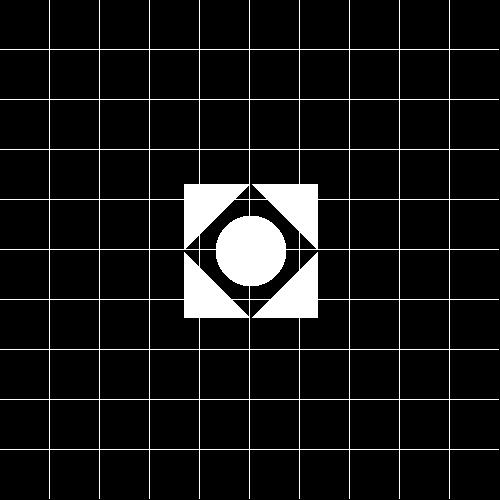
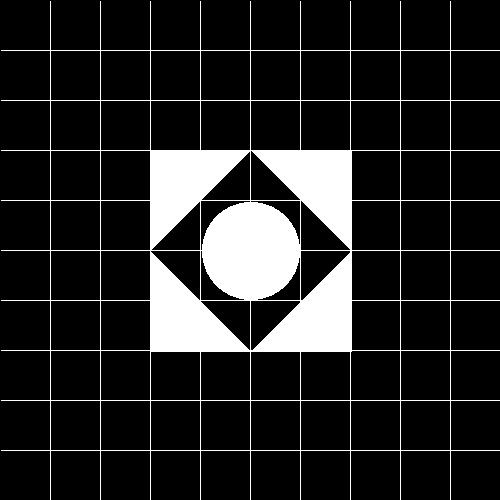
finish 4

diff --git a/Introduction to Software Engineering/project/src/unittests/RenderTest.java b/Introduction to Software Engineering/project/src/unittests/RenderTest.java
@@ -1,20 +1,106 @@
 package unittests;
 
-import static org.junit.jupiter.api.Assertions.*;
-
-import java.awt.Color;
-
+//import static org.junit.jupiter.api.Assertions.*;
 import org.junit.jupiter.api.Test;
-
-import elements.Camera;
 import geometries.*;
 import primitives.*;
-import renderer.ImageWriter;
-import renderer.Render;
+import elements.Camera;
 import scene.Scene;
+import java.awt.Color;
+import renderer.*;
+
 
 public class RenderTest {
 	
+	@Test
+	public void aviImage(){
+		Scene scene = new Scene("Avi scene");
+		scene.set_camera(new Camera( new Vector(0, -1, 0), new Vector(0, 0, 1),new Point3D(0, 0, 0)));
+		scene.set_distance(100);
+		scene.set_backGround(new Color(135,206,250));
+		Geometries geometries = new Geometries();
+		scene.set_geometries(geometries);
+
+		geometries.addGeometry(new Triangle(new Point3D(-150,   0, 149),
+											new Point3D(  75,   0, 149),
+											new Point3D(  75, -50, 149)));
+		
+		geometries.addGeometry(new Triangle(new Point3D(-150,   0, 149),
+											new Point3D(  75, -50, 149),
+											new Point3D(-150, -50, 149)));
+		
+		geometries.addGeometry(new Triangle(new Point3D(-150, -200, 149),
+				 							new Point3D(  50, -200, 149),
+				 							new Point3D(  50, -150, 149)));
+		
+		geometries.addGeometry(new Triangle(new Point3D(-150, -200, 149),
+				 			 				new Point3D(  50, -150, 149),
+				 			 				new Point3D(-150, -150, 149)));
+		
+		geometries.addGeometry(new Triangle(new Point3D(   0, -200, 149),
+											new Point3D(  50, -200, 149),
+											new Point3D(  50,    0, 149)));
+
+		geometries.addGeometry(new Triangle(new Point3D(   0, -200, 149),
+	 										new Point3D(  50,    0, 149),
+	 										new Point3D(   0,    0, 149)));
+		
+		geometries.addGeometry(new Triangle(new Point3D(-250, -200, 149),
+											new Point3D(-200, -200, 149),
+											new Point3D(-200, -100, 149)));
+
+		geometries.addGeometry(new Triangle(new Point3D(-250, -200, 149),
+											new Point3D(-250, -100, 149),
+											new Point3D(-200, -100, 149)));
+
+		geometries.addGeometry(new Triangle(new Point3D( 100, -200, 149),
+											new Point3D( 150, -200, 149),
+											new Point3D( 350,    0, 149)));
+
+		geometries.addGeometry(new Triangle(new Point3D( 100, -200, 149),
+											new Point3D( 300,    0, 149),
+											new Point3D( 350,    0, 149)));
+
+		geometries.addGeometry(new Triangle(new Point3D( 275, -200, 149),
+											new Point3D( 325, -200, 149),
+											new Point3D( 325, -125, 149)));
+
+		geometries.addGeometry(new Triangle(new Point3D( 275, -200, 149),
+											new Point3D( 275, -125, 149),
+											new Point3D( 325, -125, 149)));
+
+		geometries.addGeometry(new Triangle(new Point3D( 275, -125, 149),
+											new Point3D( 325, -125, 149),
+											new Point3D( 275,  -75, 149)));
+
+		geometries.addGeometry(new Triangle(new Point3D( 275, -125, 149),
+											new Point3D( 275,  -75, 149),
+											new Point3D( 250, -100, 149)));
+
+		geometries.addGeometry(new Triangle(new Point3D( 100, -100, 149),
+											new Point3D( 150, -100, 149),
+											new Point3D( 150,    0, 149)));
+
+		geometries.addGeometry(new Triangle(new Point3D( 100, -100, 149),
+											new Point3D( 100,    0, 149),
+											new Point3D( 150,    0, 149)));
+
+		geometries.addGeometry(new Triangle(new Point3D( 150, -150, 149),
+											new Point3D( 100, -100, 149),
+											new Point3D( 150, -100, 149)));
+
+		geometries.addGeometry(new Triangle(new Point3D( 150, -150, 149),
+											new Point3D( 150, -100, 149),
+											new Point3D( 175, -125, 149)));
+		
+		ImageWriter imageWriter = new ImageWriter("AVI", 500, 500, 500, 500);
+		Render render = new Render( scene,imageWriter);
+		
+		render.renderImage();
+		//render.printGrid(50);
+		render.writeToImage();
+	}
+
 	@Test
 	public void basicRendering(){
 		Scene scene = new Scene("Test scene");
@@ -23,23 +109,23 @@ public class RenderTest {
 		scene.set_backGround(new Color(0, 0, 0));
 		Geometries geometries = new Geometries();
 		scene.set_geometries(geometries);
-		scene.addGeometry(new Sphere(new Point3D(0, 0, 150), new Coordinate(50)));
+		geometries.addGeometry(new Sphere(new Point3D(0, 0, 150), new Coordinate(66)));
 
-		scene.addGeometry(new Triangle(new Point3D( 100, 0, 149),
-				 							new Point3D(  0, 100, 149),
-				 							new Point3D( 100, 100, 149)));
+		geometries.addGeometry(new Triangle(new Point3D( 150, 0, 149),
+				 							new Point3D(  0, 150, 149),
+				 							new Point3D( 150, 150, 149)));
 		
-		scene.addGeometry(new Triangle(new Point3D( 100, 0, 149),
-				 			 				new Point3D(  0, -100, 149),
-				 			 				new Point3D( 100,-100, 149)));
+		geometries.addGeometry(new Triangle(new Point3D( 150, 0, 149),
+				 			 				new Point3D(  0, -150, 149),
+				 			 				new Point3D( 150,-150, 149)));
 		
-		scene.addGeometry(new Triangle(new Point3D(-100, 0, 149),
-				 							new Point3D(  0, 100, 149),
-				 							new Point3D(-100, 100, 149)));
+		geometries.addGeometry(new Triangle(new Point3D(-150, 0, 149),
+				 							new Point3D(  0, 150, 149),
+				 							new Point3D(-150, 150, 149)));
 		
-		scene.addGeometry(new Triangle(new Point3D(-100, 0, 149),
-				 			 				new Point3D(  0,  -100, 149),
-				 			 				new Point3D(-100, -100, 149)));
+		geometries.addGeometry(new Triangle(new Point3D(-150, 0, 149),
+				 			 				new Point3D(  0,  -150, 149),
+				 			 				new Point3D(-150, -150, 149)));
 		
 		ImageWriter imageWriter = new ImageWriter("test0", 500, 500, 500, 500);
 		Render render = new Render(scene, imageWriter);

diff --git a/Introduction to Software Engineering/project/src/renderer/Render.java b/Introduction to Software Engineering/project/src/renderer/Render.java
@@ -7,6 +7,7 @@ package renderer;
 
 import java.awt.Color;
 import java.util.ArrayList;
+import java.util.List;
 
 import elements.AmbientLight;
 import geometries.Geometries;
@@ -21,6 +22,8 @@ public class Render {
 	Scene _scene;
 	ImageWriter _imageWriter;
 
+	/***************** Constructor **********************/ 
+
 	/**
 	 * constructor
 	 * 
@@ -32,15 +35,17 @@ public class Render {
 		_imageWriter = new ImageWriter(imageWriter);
 	}
 
+	/***************** Operations ************************/
+
+	/**
+	 * render the image from all geometry objects
+	 */
 	public void renderImage() {
-		for (int i = 0; i < _imageWriter.getNy(); i++) {
-			for (int j = 0; j < _imageWriter.getNx(); j++) {
+		for (int i = 1; i < _imageWriter.getNy(); i++) {
+			for (int j = 1; j < _imageWriter.getNx(); j++) {
 				Ray ray = _scene.get_camera().constructorRay(_imageWriter.getNx(), _imageWriter.getNy(), i, j,
 						_scene.get_distance(), _imageWriter.getWidth(), _imageWriter.getHeight());
-				ArrayList<Point3D> intersectionList = new ArrayList<Point3D>();
-				for (Geometry geometry : _scene.get_geometries()) {
-					intersectionList.addAll(geometry.findIntersections(ray));
-				}
+				List<Point3D> intersectionList = _scene.get_geometries().findIntersections(ray);
 				if (intersectionList.size() == 0) {
 					_imageWriter.writePixel(i, j, _scene.get_backGround());
 				} else {
@@ -51,7 +56,12 @@ public class Render {
 		}
 	}
 
-	private Point3D getClosestPoint(ArrayList<Point3D> intersectionList) {
+	/**
+	 * find the closest object to the camera
+	 * @param intersectionList
+	 * @return
+	 */
+	private Point3D getClosestPoint(List<Point3D> intersectionList) {
 		Point3D cameraPoint = _scene.get_camera().get_p0();
 		Coordinate distance = intersectionList.get(0).distanceFrom(cameraPoint);
 		Point3D closestPoint = intersectionList.get(0);
@@ -65,18 +75,30 @@ public class Render {
 		return closestPoint;
 	}
 
+	/**
+	 * calculate the pixel color 
+	 * @param point
+	 * @return
+	 */
 	private Color calcColor(Point3D point) {
 		return _scene.get_light().getIntensity().getColor();
 	}
 
+	/**
+	 * write the picture
+	 */
 	public void writeToImage() {
 		_imageWriter.writeToimage();
 	}
 
+	/**
+	 * print Grid
+	 * @param interval
+	 */
 	public void printGrid(int interval) {
-		for (int i = 0; i < _imageWriter.getNy() - 1; i++) {
-			for (int j = 0; j < _imageWriter.getNx() - 1; j++) {
-				if ((i + 1) % interval == 0 || (j + 1) % interval == 0) {
+		for (int i = 1; i < _imageWriter.getNy(); i++) {
+			for (int j = 1; j < _imageWriter.getNx() ; j++) {
+				if (i % interval == 0 || j % interval == 0) {
 					_imageWriter.writePixel(j, i, _scene.get_light().getIntensity().getColor());
 				}
 			}

diff --git a/Introduction to Software Engineering/project/src/scene/Scene.java b/Introduction to Software Engineering/project/src/scene/Scene.java
@@ -32,7 +32,6 @@ public class Scene {
 
 	/**
 	 * default constructor with name
-	 * 
 	 * @param name
 	 *            - name of the scene put default values Other variables
 	 */
@@ -51,7 +50,7 @@ public class Scene {
 	 */
 	public Scene(Scene scene) {
 		_name = scene._name;
-		_backGround = new Color(scene._backGround.getRGB());
+		_backGround = scene._backGround;
 		_geometries = scene._geometries;
 		_camera = new Camera(scene._camera);
 		_distance = scene._distance;
@@ -84,8 +83,8 @@ public class Scene {
 	/**
 	 * @return the _geometriesList
 	 */
-	public ArrayList<Geometry> get_geometries() {
-		return _geometries.getGeometries();
+	public Geometries get_geometries() {
+		return _geometries;
 	}
 
 	/**
@@ -128,16 +127,12 @@ public class Scene {
 		this._distance = _distance;
 	}
 
-	/***************** Operations ************************/
-
 	/**
-	 * Add geometry to the scene
-	 * 
-	 * @param geometry
-	 *            - Geometry to add
+	 * @param _light the _light to set
 	 */
-	public void addGeometry(Geometry geometry) {
-		this._geometries.getGeometries().add(geometry);
+	public void set_light(AmbientLight _light) {
+		this._light = _light;
 	}
 
+	
 }

diff --git a/Introduction to Software Engineering/project/src/geometries/Geometries.java b/Introduction to Software Engineering/project/src/geometries/Geometries.java
@@ -30,15 +30,32 @@ public class Geometries extends Geometry {
 		this.listShape=new ArrayList<Geometry>();
 	}
 	
-	///////////////////Add the copy constructor as needed///////////////////
-	
+	/**
+	 * copy constructor
+	 * @param geometries
+	 */
 	public Geometries(Geometries geometries) {
 		listShape = geometries.getGeometries();
 	}
 	
+	/***************** Getter ****************************/
+
 	public ArrayList<Geometry> getGeometries() {
 		return listShape;
 	}
+	
+	/***************** Operations ************************/
+
+	/**
+	 * Add geometry to the scene
+	 * 
+	 * @param geometry
+	 *            - Geometry to add
+	 */
+	public void addGeometry(Geometry geometry) {
+		this.listShape.add(geometry);
+	}
+
 
 	/**
 	 * override getNoraml
@@ -54,7 +71,7 @@ public class Geometries extends Geometry {
 	 * @param ray - the ray for which you want the cut points with the shapes
 	 */
 	@Override
-	public ArrayList<Point3D> findIntersections(Ray ray) {
+	public List<Point3D> findIntersections(Ray ray) {
 		ArrayList<Point3D> list = new ArrayList<Point3D>();
 		for(Geometry shape : listShape) {
 			list.addAll(shape.findIntersections(ray));

diff --git a/Introduction to Software Engineering/project/src/geometries/RadialGeometry.java b/Introduction to Software Engineering/project/src/geometries/RadialGeometry.java
@@ -70,24 +70,5 @@ public abstract class RadialGeometry extends Geometry {
 	public String toString() {
 		return "radius: " + _radius;
 	}
-	
-//	/***************** Operations ************************/ 
-//
-//	/**
-//	 * get normal
-//	 */
-//	public Vector getNormal(Point3D point){
-//		return null;
-//	}
-//	
-//	/**
-//	 * abstract function find Intersections
-//	 * @param ray
-//	 * @return point of the intersection
-//	 */
-//	@Override
-//	public List<Point3D> findIntersections(Ray ray) {
-//		return null;
-//	}
 
 }
